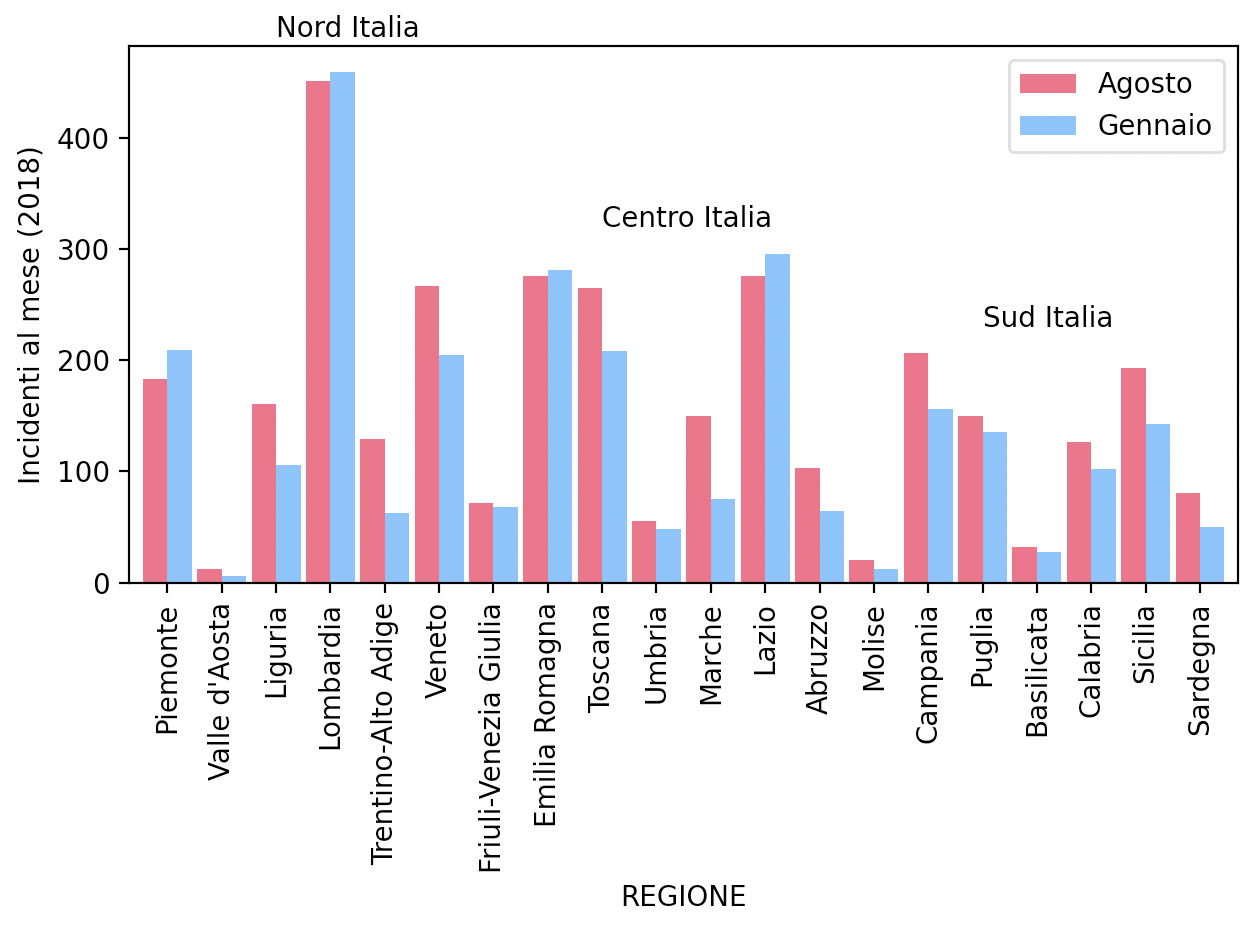
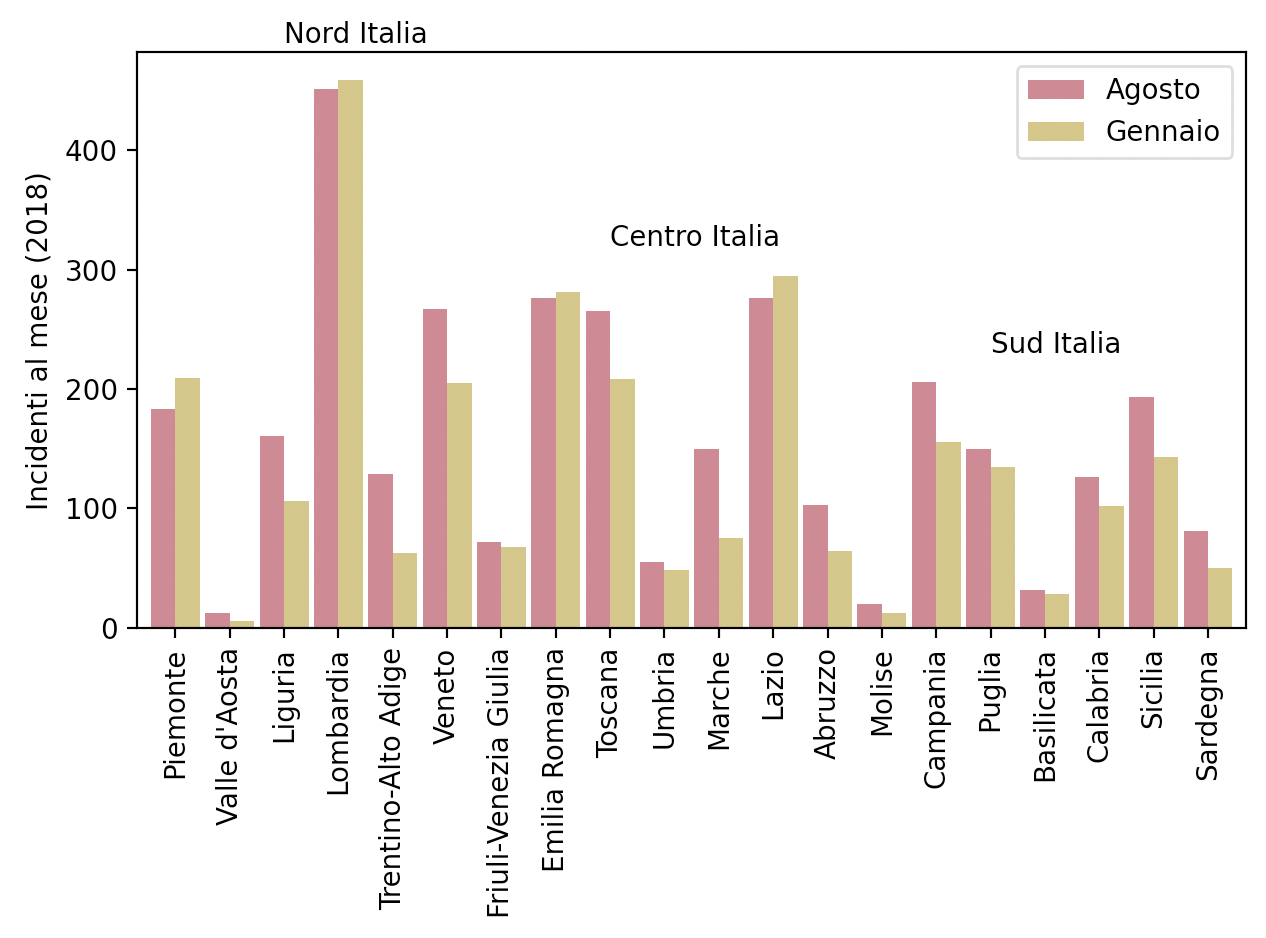
messi a posto grafi

Changed region(s): [[0.0, 0.0, 0.9921, 0.9978], [0.496, 0.9374, 0.589, 0.9978]]

diff --git a/src/incidenti/incidenti_aci/mappe_regioni/patenti_regione.py b/src/incidenti/incidenti_aci/mappe_regioni/patenti_regione.py
@@ -52,69 +52,73 @@ order = [
     'Sicilia', 'Sardegna'
 ]
 
-# color_ls = ['#2eaad3'] * 8
-# color_ls = color_ls + ['#2e57d3'] * 4
-# color_ls = color_ls + ['#2ed3aa'] * 8
-# color_ls = [color_ls, color_ls]
+color_ls2 = ['#ce717a'] * 8
+color_ls2 = color_ls2 + ['#ce717a'] * 4
+color_ls2 = color_ls2 + ['#ce717a'] * 8
 
-# patenti = patenti.reindex(order)
-# patenti = patenti['NUMERO'] / patenti['NUMERO'].sum()
-# incidenti = incidenti.reindex(order)
-# incidenti = incidenti['TOTALE'] / incidenti['TOTALE'].sum()
+color_ls = ['#cec571'] * 8
+color_ls = color_ls + ['#cec571'] * 4
+color_ls = color_ls + ['#cec571'] * 8
+color_ls = [color_ls, color_ls2]
 
-# df = pd.DataFrame([patenti, incidenti], ['Patentati', 'Incidenti']).transpose()
+patenti = patenti.reindex(order)
+patenti = patenti['NUMERO'] / patenti['NUMERO'].sum()
+incidenti = incidenti.reindex(order)
+incidenti = incidenti['TOTALE'] / incidenti['TOTALE'].sum()
 
-# df.plot.bar(width=0.9)
-# plt.text(2, 0.18, "Nord Italia")
-# plt.text(8, 0.13, "Centro Italia")
-# plt.text(15, 0.10, "Sud Italia")
-# plt.xticks(rotation=90)
-# plt.xlabel("")
-# plt.ylabel("Percentuale di incidenti e patentati per regione")
-# plt.tight_layout()
-# plt.show()
+df = pd.DataFrame([patenti, incidenti], ['Patentati', 'Incidenti']).transpose()
+
+df.plot.bar(width=0.9, color=color_ls)
+plt.text(2, 0.18, "Nord Italia")
+plt.text(8, 0.13, "Centro Italia")
+plt.text(15, 0.10, "Sud Italia")
+plt.xticks(rotation=90)
+plt.xlabel("")
+plt.ylabel("Percentuale di incidenti e patentati per regione")
+plt.tight_layout()
+plt.show()
 
 
-nord = incidenti.loc[['Piemonte', 'Valle d\'Aosta', 'Liguria', 'Lombardia', 
-    'Trentino-Alto Adige', 'Veneto', 'Friuli-Venezia Giulia', 'Emilia Romagna']]
+# nord = incidenti.loc[['Piemonte', 'Valle d\'Aosta', 'Liguria', 'Lombardia', 
+#     'Trentino-Alto Adige', 'Veneto', 'Friuli-Venezia Giulia', 'Emilia Romagna']]
 
-centro = incidenti.loc[['Toscana', 'Umbria', 'Marche', 'Lazio']]
+# centro = incidenti.loc[['Toscana', 'Umbria', 'Marche', 'Lazio']]
 
-sud = incidenti.loc[['Abruzzo', 'Molise', 'Campania', 'Puglia', 'Basilicata', 'Calabria', 
-    'Sicilia', 'Sardegna']]
+# sud = incidenti.loc[['Abruzzo', 'Molise', 'Campania', 'Puglia', 'Basilicata', 'Calabria', 
+#     'Sicilia', 'Sardegna']]
 
 # print(nord['TOTALE'].mean())
 # print(centro['TOTALE'].mean())
 # print(sud['TOTALE'].mean())
 
-ita = pd.DataFrame([nord['TOTALE'], centro['TOTALE'], sud['TOTALE']], ['Nord', 'Centro', 'Sud']).transpose()
+# ita = pd.DataFrame([nord['TOTALE'], centro['TOTALE'], sud['TOTALE']], ['Nord', 'Centro', 'Sud']).transpose()
 
-nord_p = patenti.loc[['Piemonte', 'Valle d\'Aosta', 'Liguria', 'Lombardia', 
-    'Trentino-Alto Adige', 'Veneto', 'Friuli-Venezia Giulia', 'Emilia Romagna']]
+# nord_p = patenti.loc[['Piemonte', 'Valle d\'Aosta', 'Liguria', 'Lombardia', 
+#     'Trentino-Alto Adige', 'Veneto', 'Friuli-Venezia Giulia', 'Emilia Romagna']]
 
-centro_p = patenti.loc[['Toscana', 'Umbria', 'Marche', 'Lazio']]
+# centro_p = patenti.loc[['Toscana', 'Umbria', 'Marche', 'Lazio']]
 
-sud_p = patenti.loc[['Abruzzo', 'Molise', 'Campania', 'Puglia', 'Basilicata', 'Calabria', 
-    'Sicilia', 'Sardegna']]
+# sud_p = patenti.loc[['Abruzzo', 'Molise', 'Campania', 'Puglia', 'Basilicata', 'Calabria', 
+#     'Sicilia', 'Sardegna']]
 
-# print(nord_p['NUMERO'].mean())
-# print(centro_p['NUMERO'].mean())
-# print(sud_p['NUMERO'].mean())
+# # print(nord_p['NUMERO'].mean())
+# # print(centro_p['NUMERO'].mean())
+# # print(sud_p['NUMERO'].mean())
 
-ita_p = pd.DataFrame([nord_p['NUMERO'], centro_p['NUMERO'], sud_p['NUMERO']], ['Nord', 'Centro', 'Sud']).transpose()
+# ita_p = pd.DataFrame([nord_p['NUMERO'], centro_p['NUMERO'], sud_p['NUMERO']], ['Nord', 'Centro', 'Sud']).transpose()
 
-plt.subplot(1,2,1)
-plt.boxplot(nord['TOTALE'], positions=[1], widths=[0.6])
-plt.boxplot(centro['TOTALE'], positions=[2], widths=[0.6])
-plt.boxplot(sud['TOTALE'], positions=[3], widths=[0.6])
-plt.xticks(range(1,4), ['Nord', 'Centro', 'Sud'], rotation=90)
-plt.title("Incidenti all'anno (2018)")
-plt.tight_layout()
-plt.subplot(1,2,2)
-plt.boxplot(nord_p['NUMERO'], positions=[1], widths=[0.6])
-plt.boxplot(centro_p['NUMERO'], positions=[2], widths=[0.6])
-plt.boxplot(sud_p['NUMERO'], positions=[3], widths=[0.6])
-plt.xticks(range(1,4), ['Nord', 'Centro', 'Sud'], rotation=90)
-plt.title("Patentati (2019)")
-plt.tight_layout()
-plt.show()
+# plt.subplot(1,2,1)
+# plt.boxplot(nord['TOTALE'], positions=[1], widths=[0.6])
+# plt.boxplot(centro['TOTALE'], positions=[2], widths=[0.6])
+# plt.boxplot(sud['TOTALE'], positions=[3], widths=[0.6])
+# plt.xticks(range(1,4), ['Nord', 'Centro', 'Sud'], rotation=90)
+# plt.title("Incidenti all'anno (2018)")
+# plt.tight_layout()
+# plt.subplot(1,2,2)
+# plt.boxplot(nord_p['NUMERO'], positions=[1], widths=[0.6])
+# plt.boxplot(centro_p['NUMERO'], positions=[2], widths=[0.6])
+# plt.boxplot(sud_p['NUMERO'], positions=[3], widths=[0.6])
+# plt.xticks(range(1,4), ['Nord', 'Centro', 'Sud'], rotation=90)
+# plt.title("Patentati (2019)")
+# plt.tight_layout()
+# plt.show()

diff --git a/src/incidenti/incidenti_aci/mappe_regioni/mappe_estate.py b/src/incidenti/incidenti_aci/mappe_regioni/mappe_estate.py
@@ -34,36 +34,36 @@ regioni.index = regioni['reg_name']
 
 regioni = gp.GeoDataFrame(incidenti[field_incidenti], geometry=regioni['geometry'].transpose())
 
-from matplotlib.lines import Line2D
+#from matplotlib.lines import Line2D
 
-regioni.plot(column=field_incidenti, cmap='OrRd', legend=True)
+#regioni.plot(column=field_incidenti, cmap='OrRd', legend=True)
 # plt.title("Incidenti per regione nel 2014")
-plt.axis('off')
-plt.legend([
-    Line2D([],[],color='#a52317',linewidth=5), 
-    Line2D([],[],color='#d6584d',linewidth=5), 
-    Line2D([],[],color='#f7aca5',linewidth=5)
-], [max(regioni[field_incidenti]), int(regioni[field_incidenti].mean()), min(regioni[field_incidenti])])
-plt.show()
+# plt.axis('off')
+# plt.legend([
+#     Line2D([],[],color='#a52317',linewidth=5), 
+#     Line2D([],[],color='#d6584d',linewidth=5), 
+#     Line2D([],[],color='#f7aca5',linewidth=5)
+# ], [max(regioni[field_incidenti]), int(regioni[field_incidenti].mean()), min(regioni[field_incidenti])])
+# plt.show()
 
-# agosto = get_sum_of_fields(data, 'REGIONE', 'Agosto')
-# gennaio = get_sum_of_fields(data, 'REGIONE', 'Gennaio')
+agosto = get_sum_of_fields(data, 'REGIONE', 'Agosto')
+gennaio = get_sum_of_fields(data, 'REGIONE', 'Gennaio')
 
-# agosto.index = agosto['REGIONE']
-# gennaio.index = gennaio['REGIONE']
-# agosto = agosto['Agosto']
-# gennaio = gennaio['Gennaio']
+agosto.index = agosto['REGIONE']
+gennaio.index = gennaio['REGIONE']
+agosto = agosto['Agosto']
+gennaio = gennaio['Gennaio']
 
-# red_ls = ['#f65578']*20
-# blue_ls = ['#70b8ff']*20
+red_ls = ['#ce7182']*20
+blue_ls = ['#cebd71']*20
 
-# order = [
-#     'Piemonte', 'Valle d\'Aosta', 'Liguria', 'Lombardia', 
-#     'Trentino-Alto Adige', 'Veneto', 'Friuli-Venezia Giulia', 'Emilia Romagna', 
-#     'Toscana', 'Umbria', 'Marche', 'Lazio', 
-#     'Abruzzo', 'Molise', 'Campania', 'Puglia', 'Basilicata', 'Calabria', 
-#     'Sicilia', 'Sardegna'
-# ]
+order = [
+    'Piemonte', 'Valle d\'Aosta', 'Liguria', 'Lombardia', 
+    'Trentino-Alto Adige', 'Veneto', 'Friuli-Venezia Giulia', 'Emilia Romagna', 
+    'Toscana', 'Umbria', 'Marche', 'Lazio', 
+    'Abruzzo', 'Molise', 'Campania', 'Puglia', 'Basilicata', 'Calabria', 
+    'Sicilia', 'Sardegna'
+]
 
 # nord = incidenti.loc[['Piemonte', 'Valle d\'Aosta', 'Liguria', 'Lombardia', 
 #     'Trentino-Alto Adige', 'Veneto', 'Friuli-Venezia Giulia', 'Emilia Romagna']]
@@ -73,17 +73,18 @@ plt.show()
 # sud = incidenti.loc[['Abruzzo', 'Molise', 'Campania', 'Puglia', 'Basilicata', 'Calabria', 
 #     'Sicilia', 'Sardegna']]
 
-# agosto = agosto.reindex(order)
-# gennaio = gennaio.reindex(order)
+agosto = agosto.reindex(order)
+gennaio = gennaio.reindex(order)
 
-# pd.DataFrame([agosto, gennaio], ['Agosto', 'Gennaio']).transpose().plot.bar(width=0.9, color=[red_ls, blue_ls])
+pd.DataFrame([agosto, gennaio], ['Agosto', 'Gennaio']).transpose().plot.bar(width=0.9, color=[red_ls, blue_ls])
 
-# plt.text(2, 490, "Nord Italia")
-# plt.text(8, 320, "Centro Italia")
-# plt.text(15, 230, "Sud Italia")
+plt.text(2, 490, "Nord Italia")
+plt.text(8, 320, "Centro Italia")
+plt.text(15, 230, "Sud Italia")
 
-# plt.xticks(rotation=90)
-# plt.ylabel("Incidenti al mese (2018)")
-# plt.legend()
-# plt.tight_layout()
-# plt.show()
+plt.xticks(rotation=90)
+plt.ylabel("Incidenti al mese (2018)")
+plt.xlabel("")
+plt.legend()
+plt.tight_layout()
+plt.show()

diff --git a/src/incidenti/incidenti_aci/provincia/corr_incidenti.py b/src/incidenti/incidenti_aci/provincia/corr_incidenti.py
@@ -30,8 +30,8 @@ provincia = sum_field_by_column(data, 'PROVINCIA', fields[0], fields[1]).transpo
 # Correlazione più debole, ma comunque presente
 
 provincia = provincia.sort_values(by=0).head(20).sort_index()
-plt.fill_between(provincia.index, provincia[1],label='Feriti', color='#475cc1')
-plt.fill_between(provincia.index, provincia[0], label='Incidenti', color='#4799c1')
+plt.fill_between(provincia.index, provincia[1],label='Feriti', color='#71ceaf')
+plt.fill_between(provincia.index, provincia[0], label='Incidenti', color='#7190ce')
 plt.legend()
 plt.xticks(range(0,20), provincia.index, rotation=90)
 plt.ylabel("Numero di incidenti e feriti (2018)")
